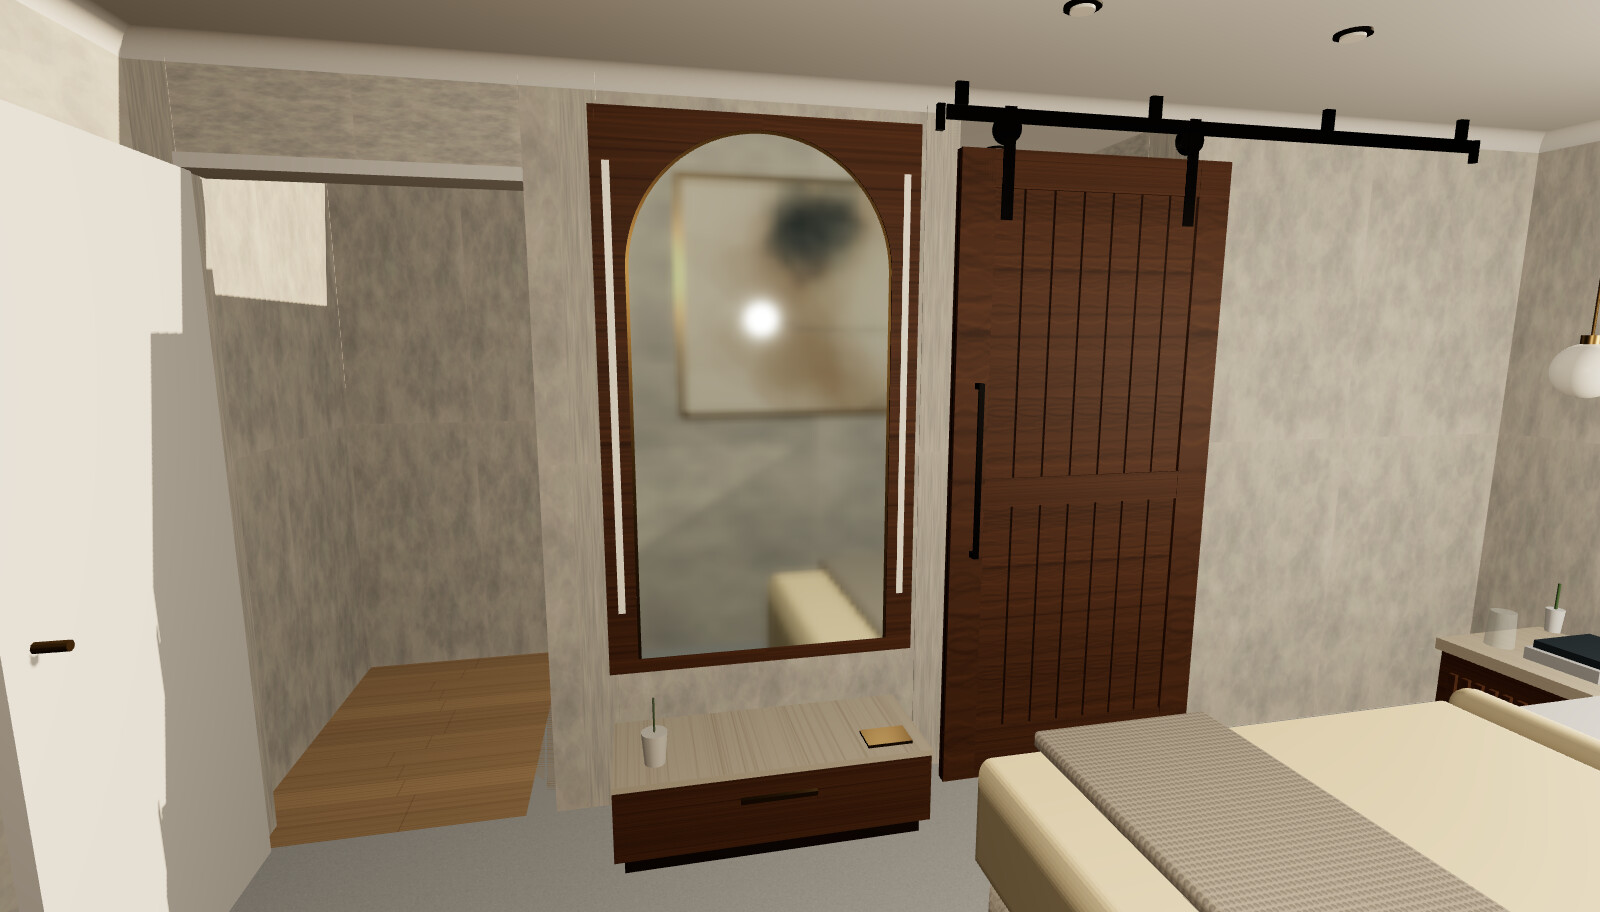
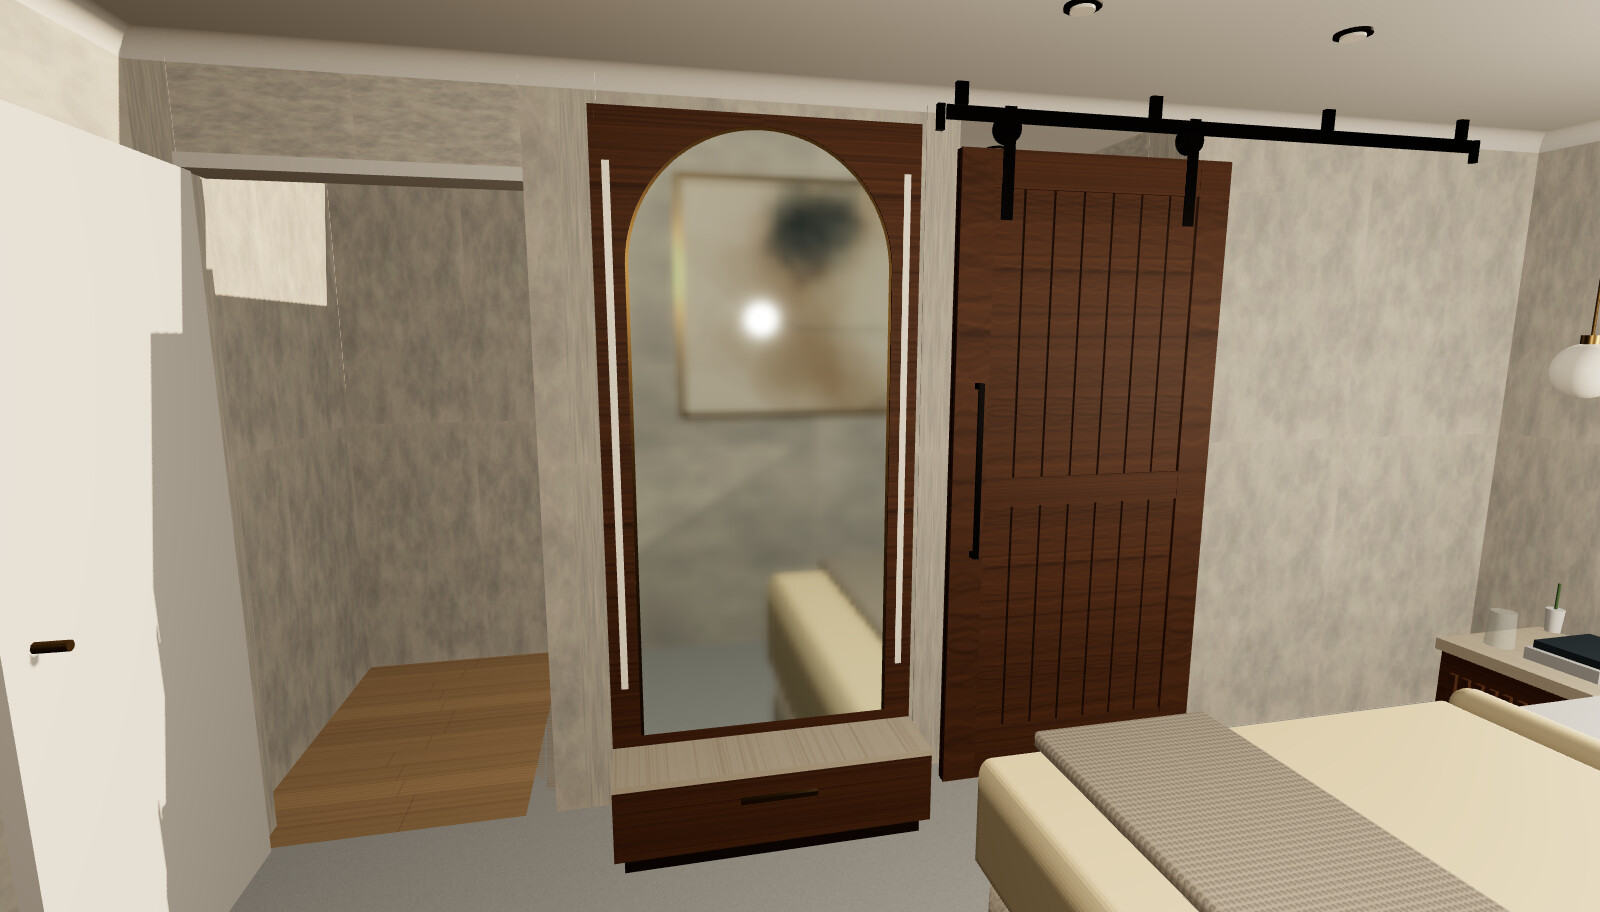
Mirror cabinet rests on the drawer top: long arched mirror 820 x 1880
Claude-Session: https://claude.ai/code/session_01P4LkCESWoGV8P5QgBbWSmy

diff --git a/renders/bedroom-1-3d.html b/renders/bedroom-1-3d.html
@@ -202,15 +202,14 @@ box(3.62,4.0,0.05,0.28,1.2,2.2,walnut);                                    // dr
 box(3.615,3.62,0.065,0.265,1.21,2.19,walnut);                              // drawer front
 box(3.6,3.615,0.2,0.215,1.58,1.82,brass);                                  // long pull
 box(3.61,4.0,0.28,0.3,1.2,2.2,travertine);                                 // stone top
-box(3.66,3.76,0.3,0.31,2.0,2.15,brass); cyl(3.71,0.36,1.33,0.04,0.032,0.1,mat('#efe9df',0.5)); cyl(3.71,0.46,1.33,0.003,0.003,0.12,mat('#6b7f58',0.8),6);
-const MOPEN=P.get('mopen')==='1', CB0=0.55, CB1=2.25, CZ=1.7, AW=0.82, AH=1.61, AB=0.595;   // cabinet 1000 W x 1700 H x 150 D, arched door 820 x 1610
+const MOPEN=P.get('mopen')==='1', CB0=0.30, CB1=2.25, CZ=1.7, AW=0.82, AH=1.88, AB=0.335;   // cabinet 1000 W x 1950 H x 150 D resting on the drawer top, arched door 820 x 1880
 function archShape(w,h,ox=0,oy=0){ const sh=new THREE.Shape(); sh.moveTo(ox-w/2,oy); sh.lineTo(ox+w/2,oy); sh.lineTo(ox+w/2,oy+h-w/2); sh.absarc(ox,oy+h-w/2,w/2,0,Math.PI,false); sh.lineTo(ox-w/2,oy); return sh; }
 const cabIn=mat('#e9dfd0',0.7);
 box(3.85,4.0,CB0,CB0+0.018,1.2,2.2,walnut); box(3.85,4.0,CB1-0.018,CB1,1.2,2.2,walnut);          // bottom / top
 box(3.85,4.0,CB0,CB1,1.2,1.218,walnut); box(3.85,4.0,CB0,CB1,2.182,2.2,walnut);                    // sides
 box(3.985,4.0,CB0,CB1,1.218,2.182,cabIn);                                                          // back
-for(const y of [0.88,1.18,1.48,1.78,2.02]) box(3.865,3.985,y,y+0.012,1.218,2.182,mat('#dfe6e6',0.15,0,{transparent:true,opacity:0.55}),false); // glass shelves
-for(const [y,z,r,h,c] of [[0.892,1.45,0.025,0.11,'#c9a27a'],[0.892,1.55,0.02,0.14,'#f1ece4'],[1.192,1.75,0.03,0.09,'#d8c3a5'],[1.192,1.9,0.022,0.13,'#7d8f7a'],[1.492,1.5,0.028,0.08,'#e8d7c0'],[1.492,1.95,0.02,0.15,'#b8875b'],[1.792,1.7,0.035,0.1,'#efe9df']]) cyl(3.93,y+h/2,z,r,r,h,mat(c,0.4),20);
+for(const y of [0.62,0.92,1.22,1.52,1.82,2.05]) box(3.865,3.985,y,y+0.012,1.218,2.182,mat('#dfe6e6',0.15,0,{transparent:true,opacity:0.55}),false); // glass shelves
+for(const [y,z,r,h,c] of [[0.632,1.5,0.03,0.12,'#d8c3a5'],[0.932,1.45,0.025,0.11,'#c9a27a'],[0.932,1.55,0.02,0.14,'#f1ece4'],[1.232,1.75,0.03,0.09,'#d8c3a5'],[1.232,1.9,0.022,0.13,'#7d8f7a'],[1.532,1.5,0.028,0.08,'#e8d7c0'],[1.532,1.95,0.02,0.15,'#b8875b'],[1.832,1.7,0.035,0.1,'#efe9df']]) cyl(3.93,y+h/2,z,r,r,h,mat(c,0.4),20);
 box(3.865,3.875,CB1-0.04,CB1-0.03,1.23,2.17,mat('#fffaf0',0.3,0,{emissive:'#ffe2b8',emissiveIntensity:MOPEN?1.5:0}),false);   // inside LED (door sensor)
 { const fr=new THREE.Shape(); fr.moveTo(-0.5,0); fr.lineTo(0.5,0); fr.lineTo(0.5,CB1-CB0); fr.lineTo(-0.5,CB1-CB0); fr.lineTo(-0.5,0); fr.holes.push(archShape(AW,AH,0,AB-CB0));   // walnut face frame with arched opening
   const m=new THREE.Mesh(new THREE.ExtrudeGeometry(fr,{depth:0.018,bevelEnabled:false,curveSegments:48}),walnut); m.rotation.y=-Math.PI/2; m.position.set(3.85,CB0,CZ); m.castShadow=true; m.receiveShadow=true; scene.add(m); }
@@ -276,8 +275,8 @@ const mirrorM=mat('#c9d2d4',0.03,1.0,{envMap:cubeRT.texture});
 const mirror=new THREE.Mesh(new THREE.ShapeGeometry(archShape(AW-0.02,AH-0.01,0,0),48),mirrorM); mirror.rotation.y=-Math.PI/2; mirror.position.set(-0.0165,0.0,AW/2); DOOR.add(mirror);
 // mirror lights (ML): slim opal LED bars in the walnut face frame either side of the arched mirror (2700K, own switch)
 const EVE0=P.get('time')==='evening', ledM=mat('#fffaf0',0.3,0,{emissive:'#ffe2b8',emissiveIntensity:EVE0?2.5:0.15});
-for(const zc of [1.245,2.155]) box(3.829,3.833,0.75,2.1,zc-0.011,zc+0.011,ledM,false,false);
-if(EVE0){ for(const zc of [1.245,2.155]) for(let y=0.8;y<2.1;y+=0.4){ const L=new THREE.PointLight('#ffd9a8',0.28,1.6,1.8); L.position.set(3.78,y,zc); scene.add(L); } }
+for(const zc of [1.245,2.155]) box(3.829,3.833,0.5,2.1,zc-0.011,zc+0.011,ledM,false,false);
+if(EVE0){ for(const zc of [1.245,2.155]) for(let y=0.6;y<2.1;y+=0.4){ const L=new THREE.PointLight('#ffd9a8',0.28,1.6,1.8); L.position.set(3.78,y,zc); scene.add(L); } }
 
 // ---------- Lighting: morning sun through south window ----------
 scene.add(new THREE.HemisphereLight('#fff8ee','#a08a70',0.55));

diff --git a/cad/make_plan_B_dxf.py b/cad/make_plan_B_dxf.py
@@ -39,7 +39,7 @@ rect(0, RL - 3700, 40, RL - 1900, 'I-ART'); text(130, RL - 2800, 'ARTWORK 1800 x
 rect(3620, RL - 2200, 4000, RL - 1200, 'I-JOIN-MIRROR'); rect(3850, RL - 2200, 4000, RL - 1200, 'I-JOIN-MIRROR'); rect(3832, RL - 2110, 3850, RL - 1290, 'I-JOIN-MIRROR')
 msp.add_arc(center=(3850, RL - 1290), radius=820, start_angle=180, end_angle=270, dxfattribs={'layer': 'A-CLEAR'})
 for zc in (1245, 2155): rect(3825, RL - zc - 12, 3850, RL - zc + 12, 'E-LITE')
-text(3740, RL - 1700, 'FLOOR DRAWER 1000x380x300 + ARCHED MIRROR CABINET 1000x1700x150 ABOVE', 30, 'I-JOIN-MIRROR', rot=90)
+text(3740, RL - 1700, 'FLOOR DRAWER 1000x380x300 + ARCHED MIRROR CABINET 1000x1950x150 RESTING ON IT', 30, 'I-JOIN-MIRROR', rot=90)
 cx, cy, a = 500, RL - 550, math.radians(40)
 msp.add_lwpolyline([(cx + x * math.cos(a) - y * math.sin(a), cy + x * math.sin(a) + y * math.cos(a)) for x, y in [(-360, -360), (360, -360), (360, 360), (-360, 360)]], close=True, dxfattribs={'layer': 'I-FURN'})
 text(cx, cy, 'CHAIR', 45, 'I-FURN'); msp.add_circle((420, RL - 1300), 200, dxfattribs={'layer': 'I-FURN'}); text(420, RL - 1300, 'TABLE', 40, 'I-FURN')
@@ -79,7 +79,7 @@ rows = [('TAG', 'FITTING', 'X FROM W', 'FROM N', 'CIRCUIT / SWITCH'),
         ('A2', 'Gimbal 8W 24-36 deg, aim art 1450 AFF', '700', '3200', 'C2 feature dimmer'),
         ('B1', 'Gimbal 8W 24-36 deg, wash barn door', '3300', '2400', 'C2 feature dimmer'),
         ('B2', 'Gimbal 8W 24-36 deg, wash barn door', '3300', '3200', 'C2 feature dimmer'),
-        ('ML', '2 opal LED bars 1350 long, either side of mirror', '3830', '1245/2155', 'C5 switch at mirror'),
+        ('ML', '2 opal LED bars 1600 long, either side of mirror', '3830', '1245/2155', 'C5 switch at mirror'),
         ('PEN', '2 bedside pendants, 600-700 above NS', '725/3275', '4150', 'C3 2-way entry + bed'),
         ('W1', 'Downlight in robe walkway', '4650', '2850', 'C4 sensor or switch'),
         ('ALL', 'Symmetric about bed axis X=2000; 2700K CRI90+ dim', '', '', 'Licensed electrician')]

diff --git a/plans/make_plan_B.py b/plans/make_plan_B.py
@@ -76,7 +76,7 @@ for x0, x1 in NS:
 # artwork on the west wall, between the reading corner and the west nightstand
 r(0, 1.9, 0.04, 3.7, '#c77d5a', '#b08d57', 1.2); t(X(0.14), Y(2.8), 'ARTWORK 1800 × 900 (centre 1450 AFF)', 10.5, '#8a4f33', 'middle', '700', rot=-90)
 # mirror + floor drawer: east wall between door and robe walkway (faces west)
-# floor drawer 1000 x 380 + wall-hung arched mirror cabinet 1000 x 150 above (mirror door hinged on north edge)
+# floor drawer 1000 x 380 + arched mirror cabinet 1000 x 1950 x 150 resting on its top (mirror door hinged on north edge)
 r(3.62, 1.2, 4.0, 2.2, WAL_L, WAL, 1.5); r(3.85, 1.2, 4.0, 2.2, 'none', WAL, 1.2, dash='4 3'); r(3.832, 1.29, 3.85, 2.11, MIR, '#b08d57', 1.2)
 b.append(f'<path d="M{X(3.85)} {Y(2.11)} A{0.82*S} {0.82*S} 0 0 1 {X(3.85-0.82)} {Y(1.29)}" fill="none" stroke="{WAL}" stroke-width="0.8" stroke-dasharray="3 3"/>')
 for zc in (1.245, 2.155): r(3.825, zc - 0.012, 3.85, zc + 0.012, '#fff1b8', LIGHT, 1.2)

diff --git a/gemini/README.md b/gemini/README.md
@@ -29,6 +29,6 @@ tells Gemini only to make it photorealistic.
 - "The artwork is on the west wall beside the bed, not above the bed."
 - "Remove the rug - the floor is wall-to-wall light grey carpet."
 - "Keep the ceiling flat with a small cove cornice and small flush downlights - no chandelier, no light over the bed."
-- "On the east wall: a low walnut floor drawer with travertine top, and above it a walnut mirror cabinet whose door is a tall arched mirror with a thin brass edge. Keep the arch, keep it on the wall above the drawer."
+- "On the east wall: a low walnut floor drawer with travertine top, and resting on it a tall walnut mirror cabinet whose door is a long arched mirror with a thin brass edge. Keep the arch, keep it on the wall above the drawer."
 - "There is no TV anywhere in the room."
 - "The robe walkway on the east wall is closed by ONE walnut barn door (1.0 x 2.2 m) hanging from a matte-black barn track fixed to the ceiling; it slides toward the window. Keep it a solid timber door, not glass."
